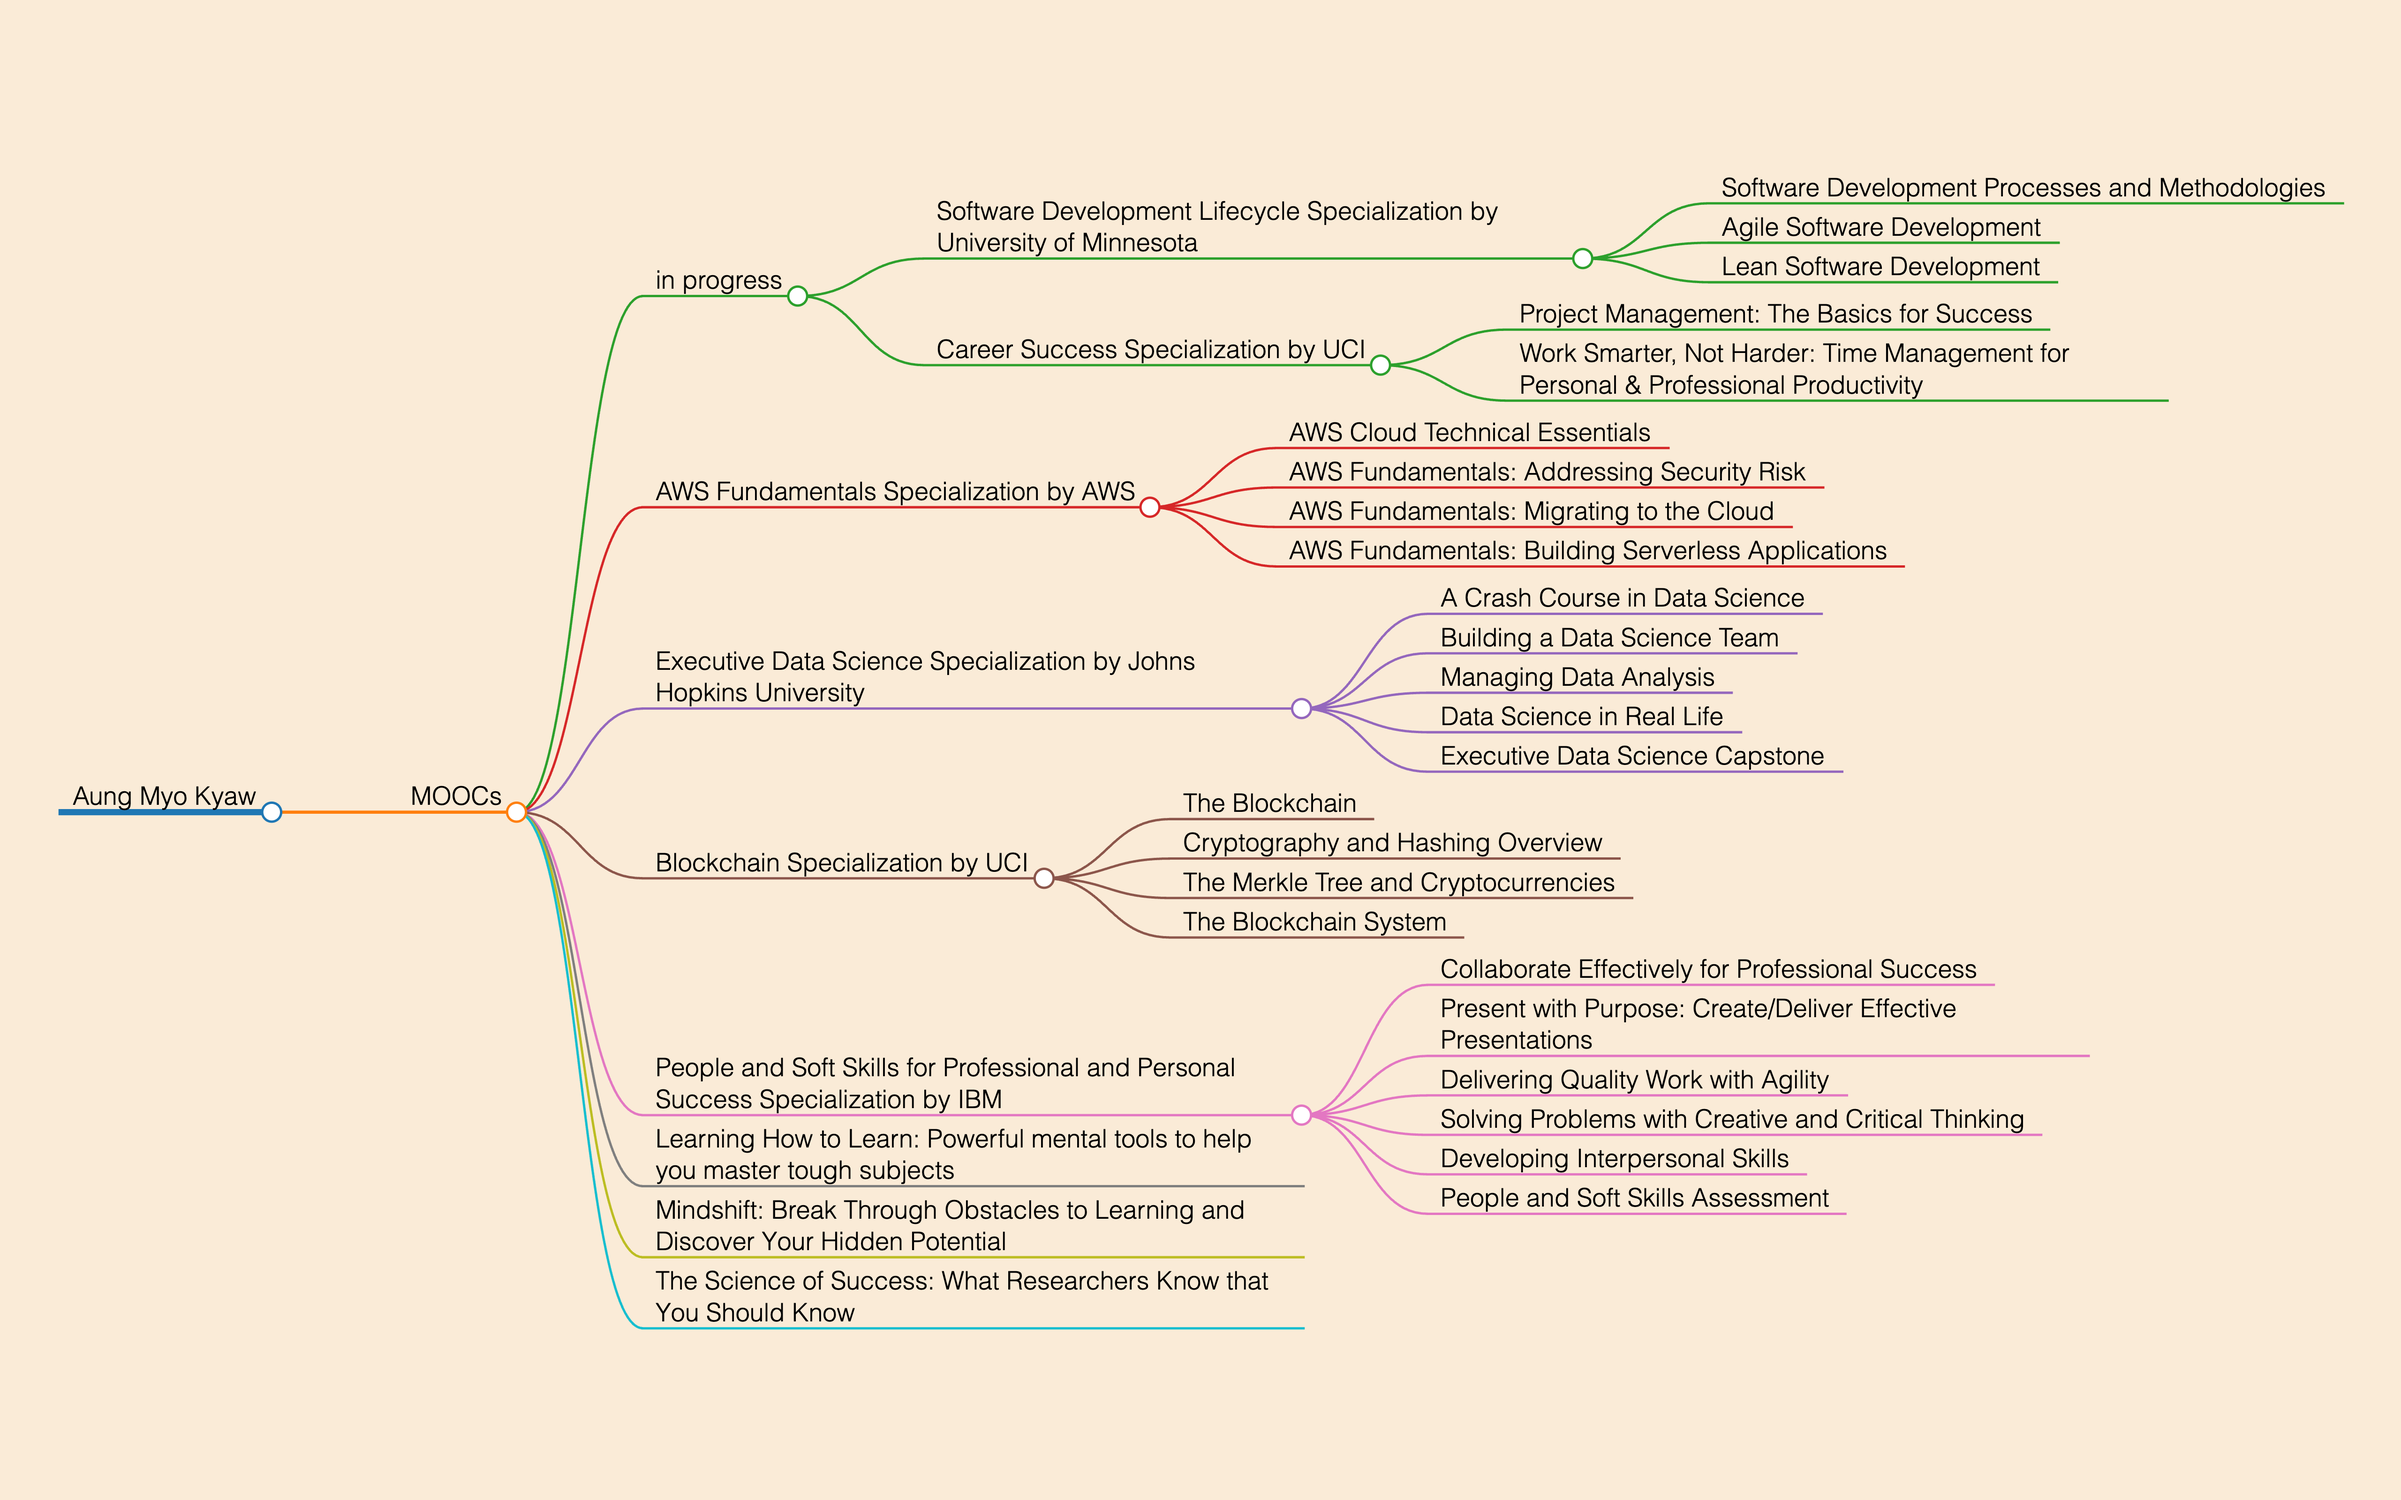
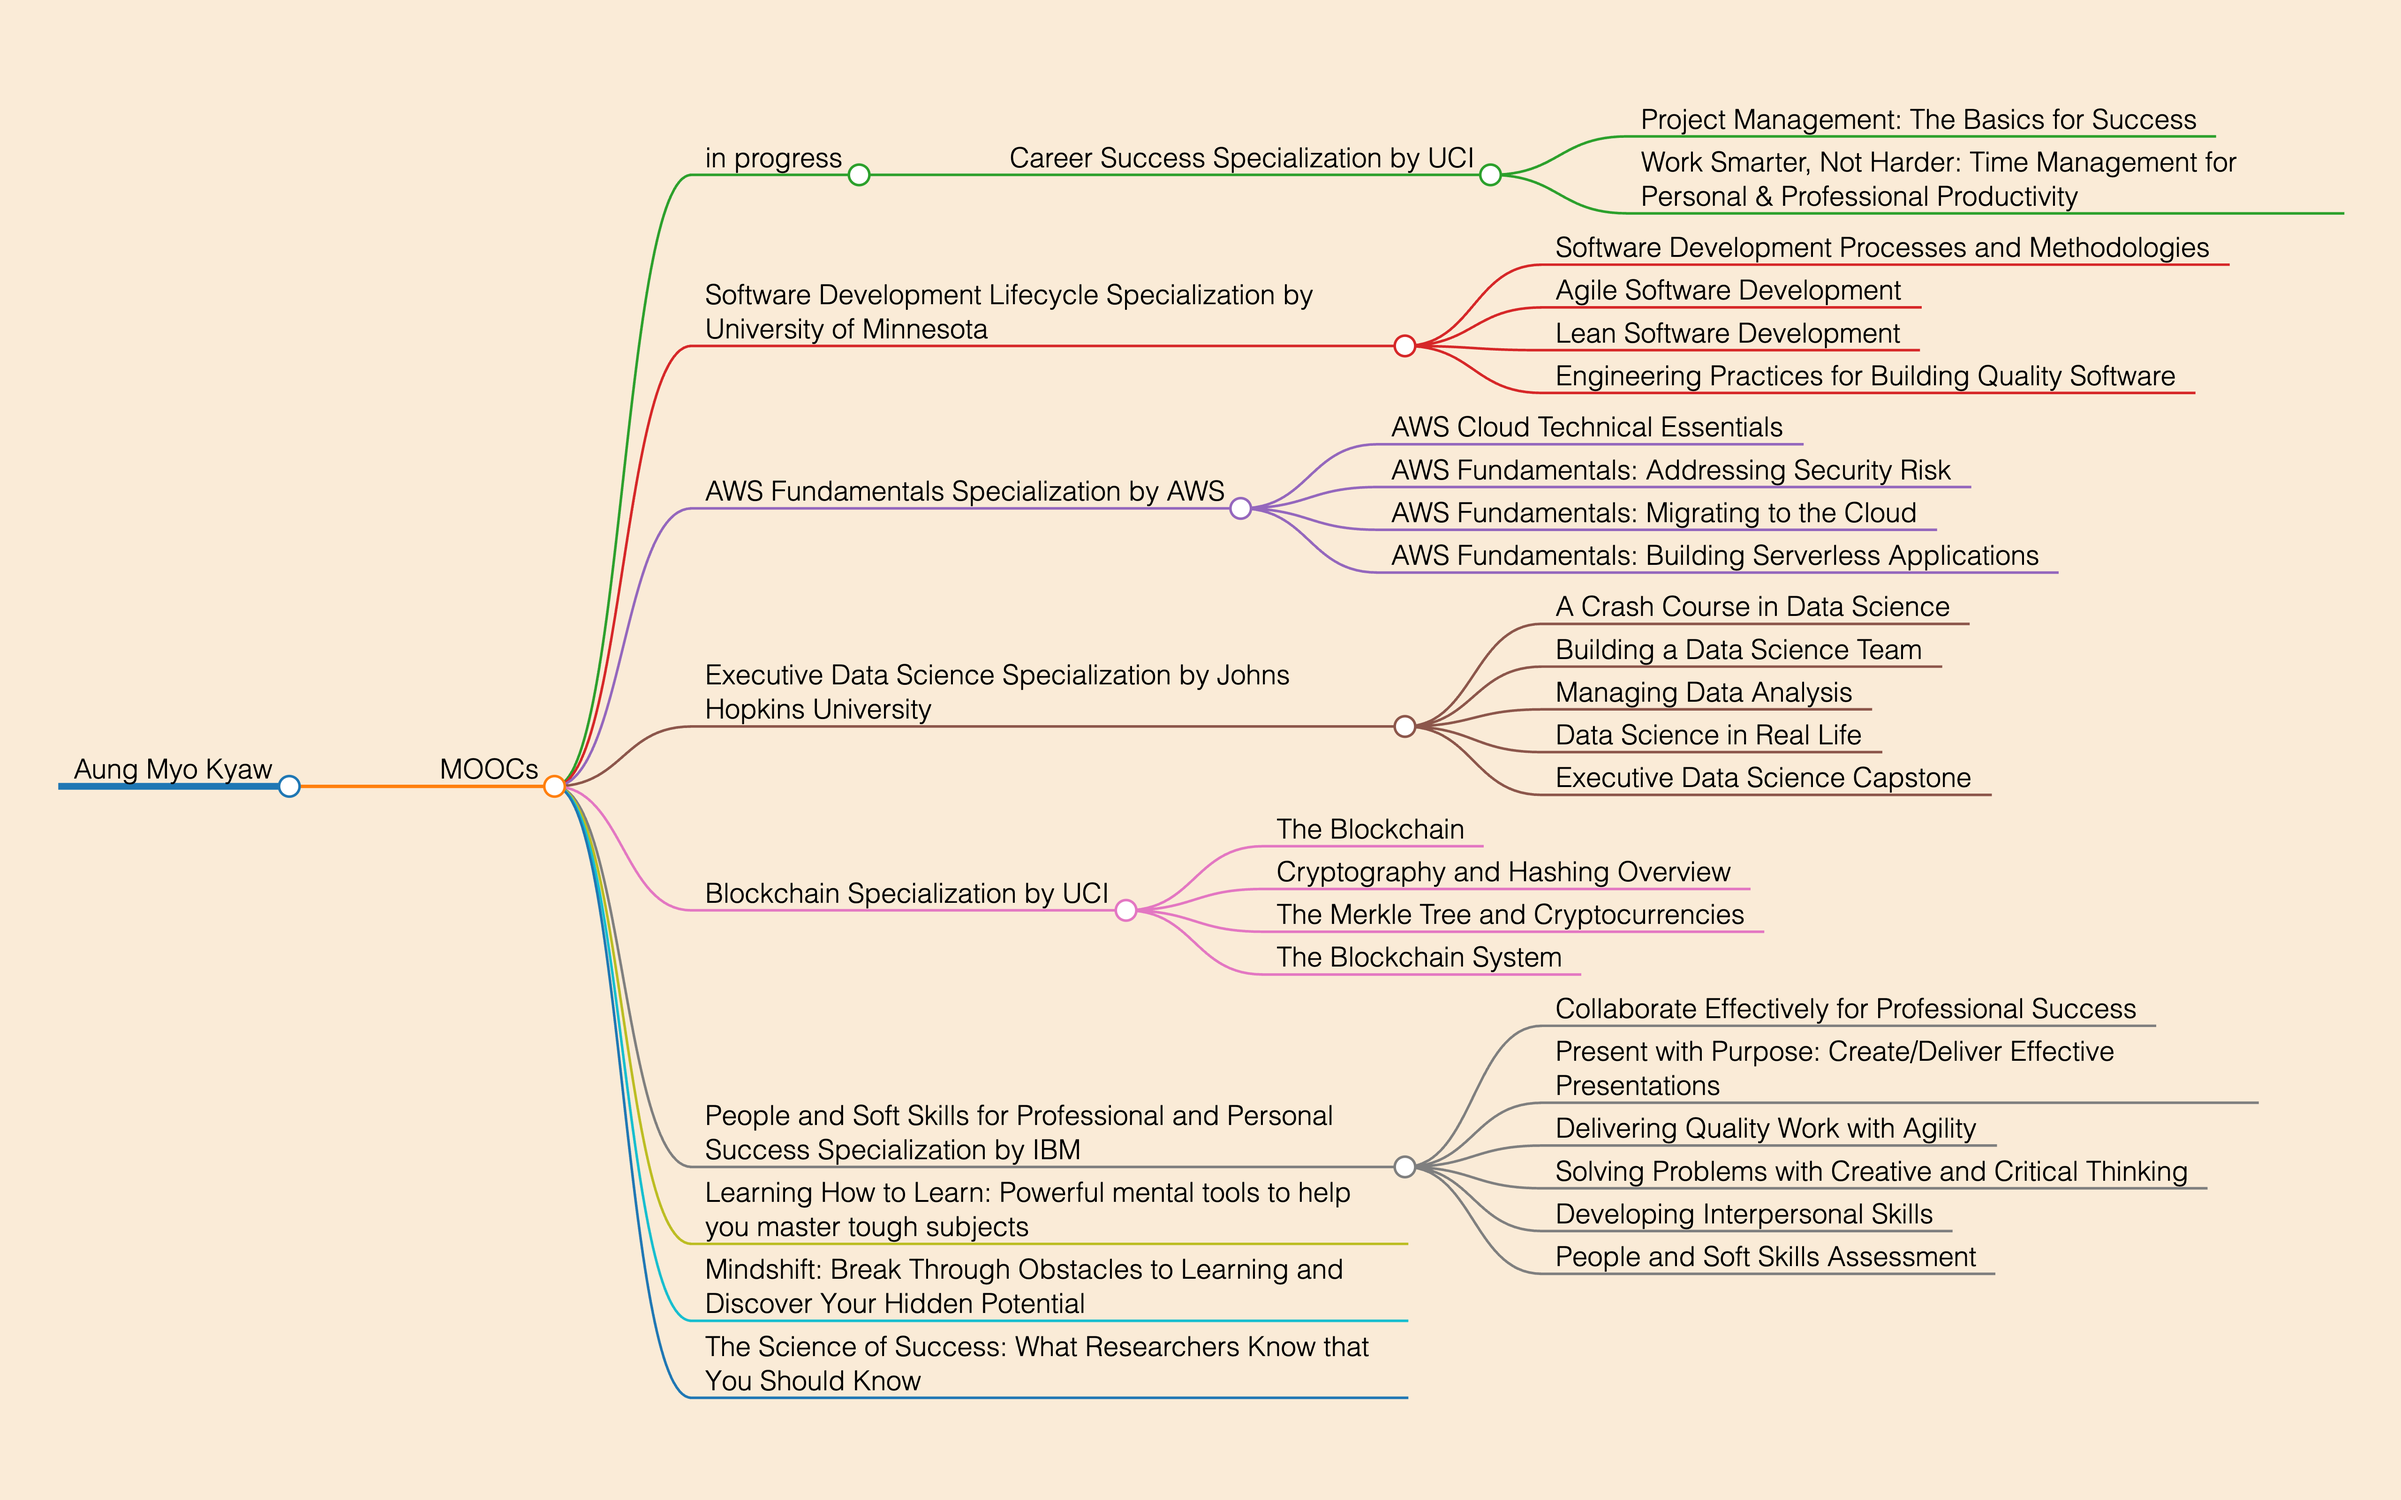
complete: Engineering Practices for Building Quality Software

diff --git a/README.md b/README.md
@@ -21,14 +21,16 @@ markmap:
 
 ### in progress
 
-- Software Development Lifecycle Specialization by University of Minnesota
-  - [Software Development Processes and Methodologies](https://www.coursera.org/account/accomplishments/certificate/SD2EMT2SRLCG)
-  - [Agile Software Development](https://www.coursera.org/account/accomplishments/certificate/FACMLKZAZUCL)
-  - [Lean Software Development](https://www.coursera.org/account/accomplishments/certificate/WABZAU3U3CAM)
-
 - Career Success Specialization by UCI
   - [Project Management: The Basics for Success](https://www.coursera.org/account/accomplishments/certificate/PY65L84X3CC3)
   - [Work Smarter, Not Harder: Time Management for Personal & Professional Productivity](https://www.coursera.org/account/accomplishments/certificate/D5YLNXLRV47V)
+
+### [Software Development Lifecycle Specialization by University of Minnesota](https://www.coursera.org/account/accomplishments/specialization/certificate/H2UZFJYXWN7W)
+
+- [Software Development Processes and Methodologies](https://www.coursera.org/account/accomplishments/certificate/SD2EMT2SRLCG)
+- [Agile Software Development](https://www.coursera.org/account/accomplishments/certificate/FACMLKZAZUCL)
+- [Lean Software Development](https://www.coursera.org/account/accomplishments/certificate/WABZAU3U3CAM)
+- [Engineering Practices for Building Quality Software](https://www.coursera.org/account/accomplishments/certificate/WJCEX3BPKADK)
 
 ### [AWS Fundamentals Specialization by AWS](https://www.coursera.org/account/accomplishments/specialization/certificate/WZ2NC5LE482W)
 
